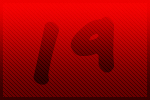
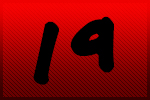
19

Changed region(s): [[0.4533, 0.15, 0.7733, 0.72], [0.2133, 0.21, 0.4, 0.87]]

diff --git a/19.html b/19.html
@@ -1,0 +1,38 @@
+<html>
+<title> Knuffis Super Barcelonakalender </title>
+<style>
+input[type=text] {
+	width: 5%;
+	padding: 12px 24px;
+	margin: 8px 0;
+	box-sizing: border-bow;
+	background-color: white;
+	color: black;
+	font-weight: bold;
+	text-align: center;
+	}
+input[type=text]:focus {
+	background-color: lightblue;
+	}
+
+input[type=submit] {
+	background-color: lightblue;
+	border-radius: 3px;
+	padding: 12px 20px;
+	margin: 4px 2px;
+	color: white;
+	font-weight: bold;
+	text-align: center;
+	text-shadow: 1px 1px 1px #000000;
+	}
+
+	
+
+</style>
+<body background="images/bg2.jpg">
+<center>
+<img src="images/schlafen.png" alt="schlafen">
+</center>
+
+</body>
+</html>

diff --git a/index.html b/index.html
@@ -65,7 +65,7 @@ body {
 <a href="16.html">
   <img src="images/advent/16.jpg" alt="16">
 </a> 
-<a>
+<a href="19.html">
   <img src="images/advent/19.jpg" alt="19">
 </a> <br>
 <a href="11.html">
